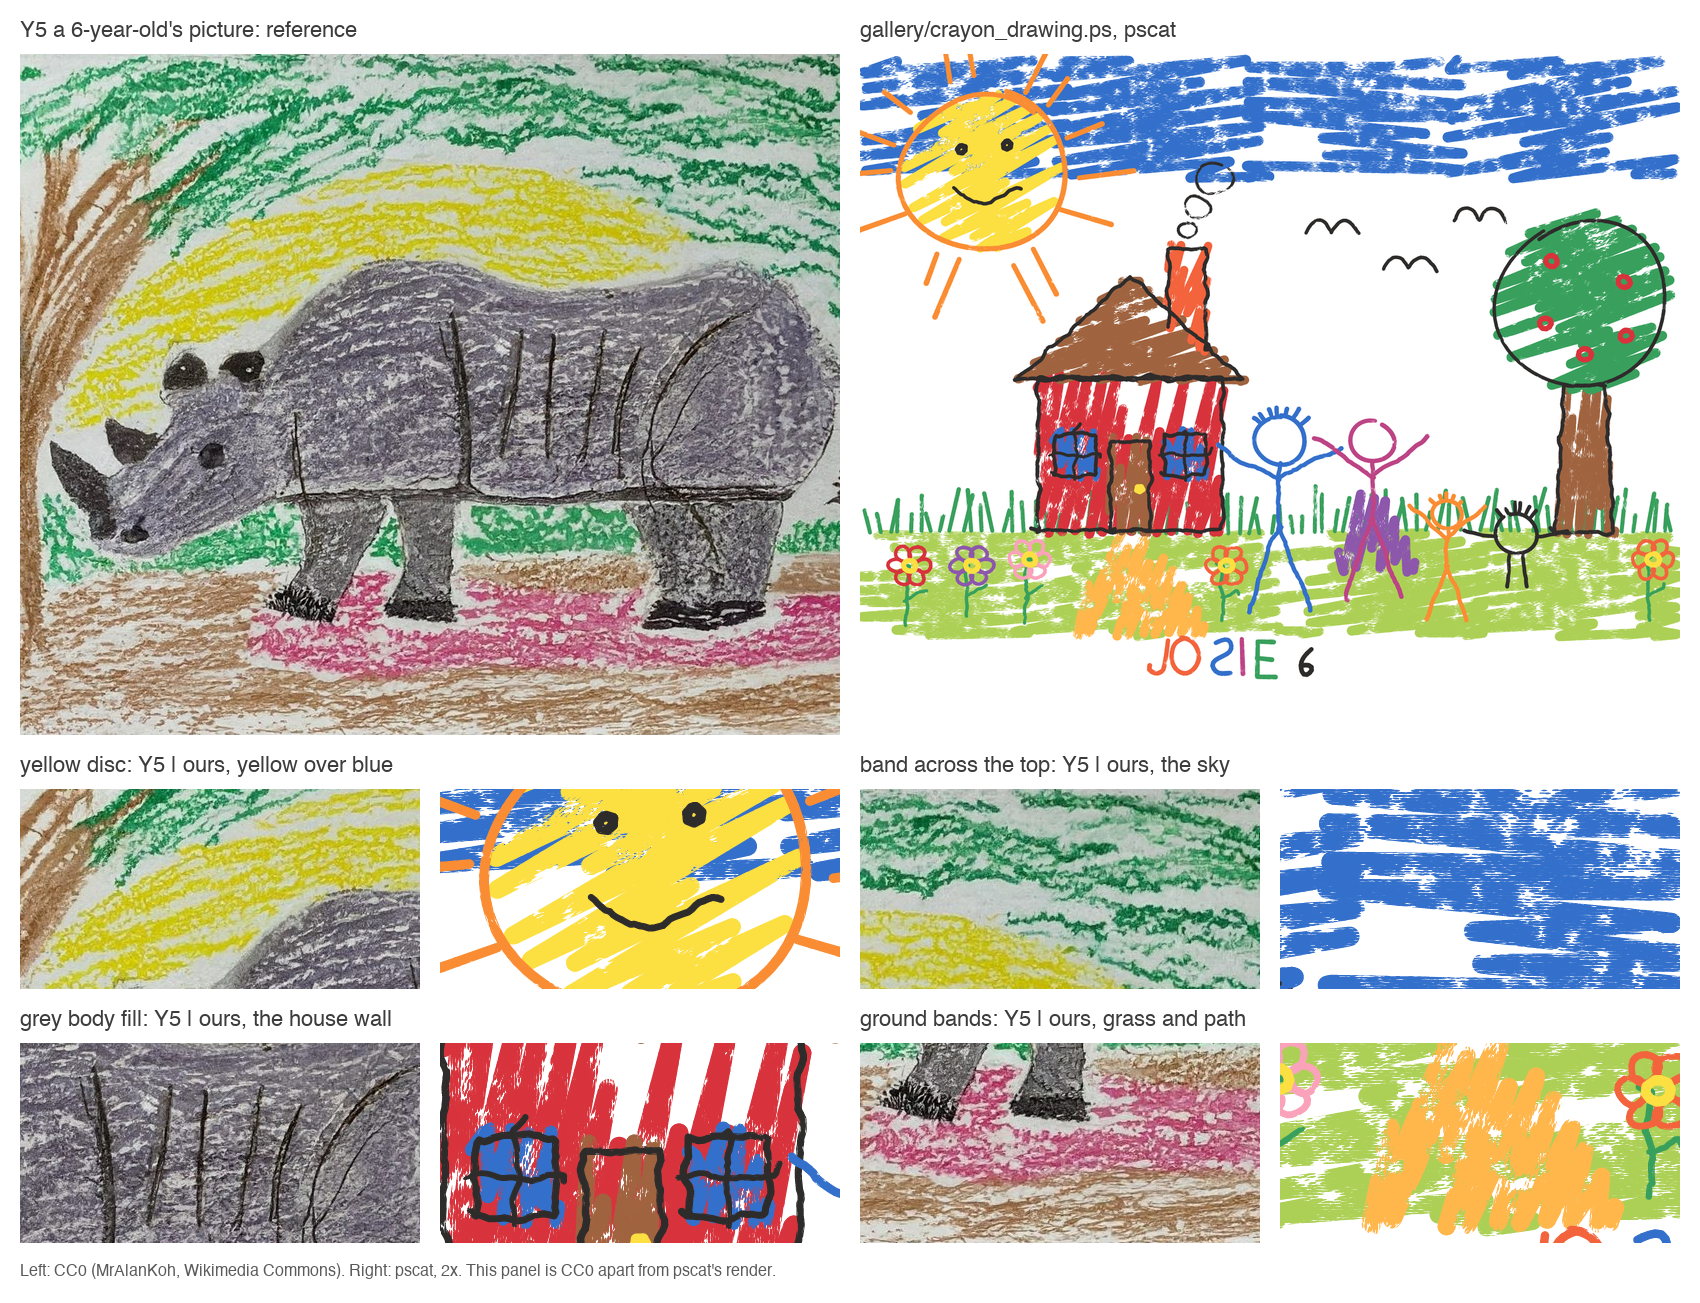
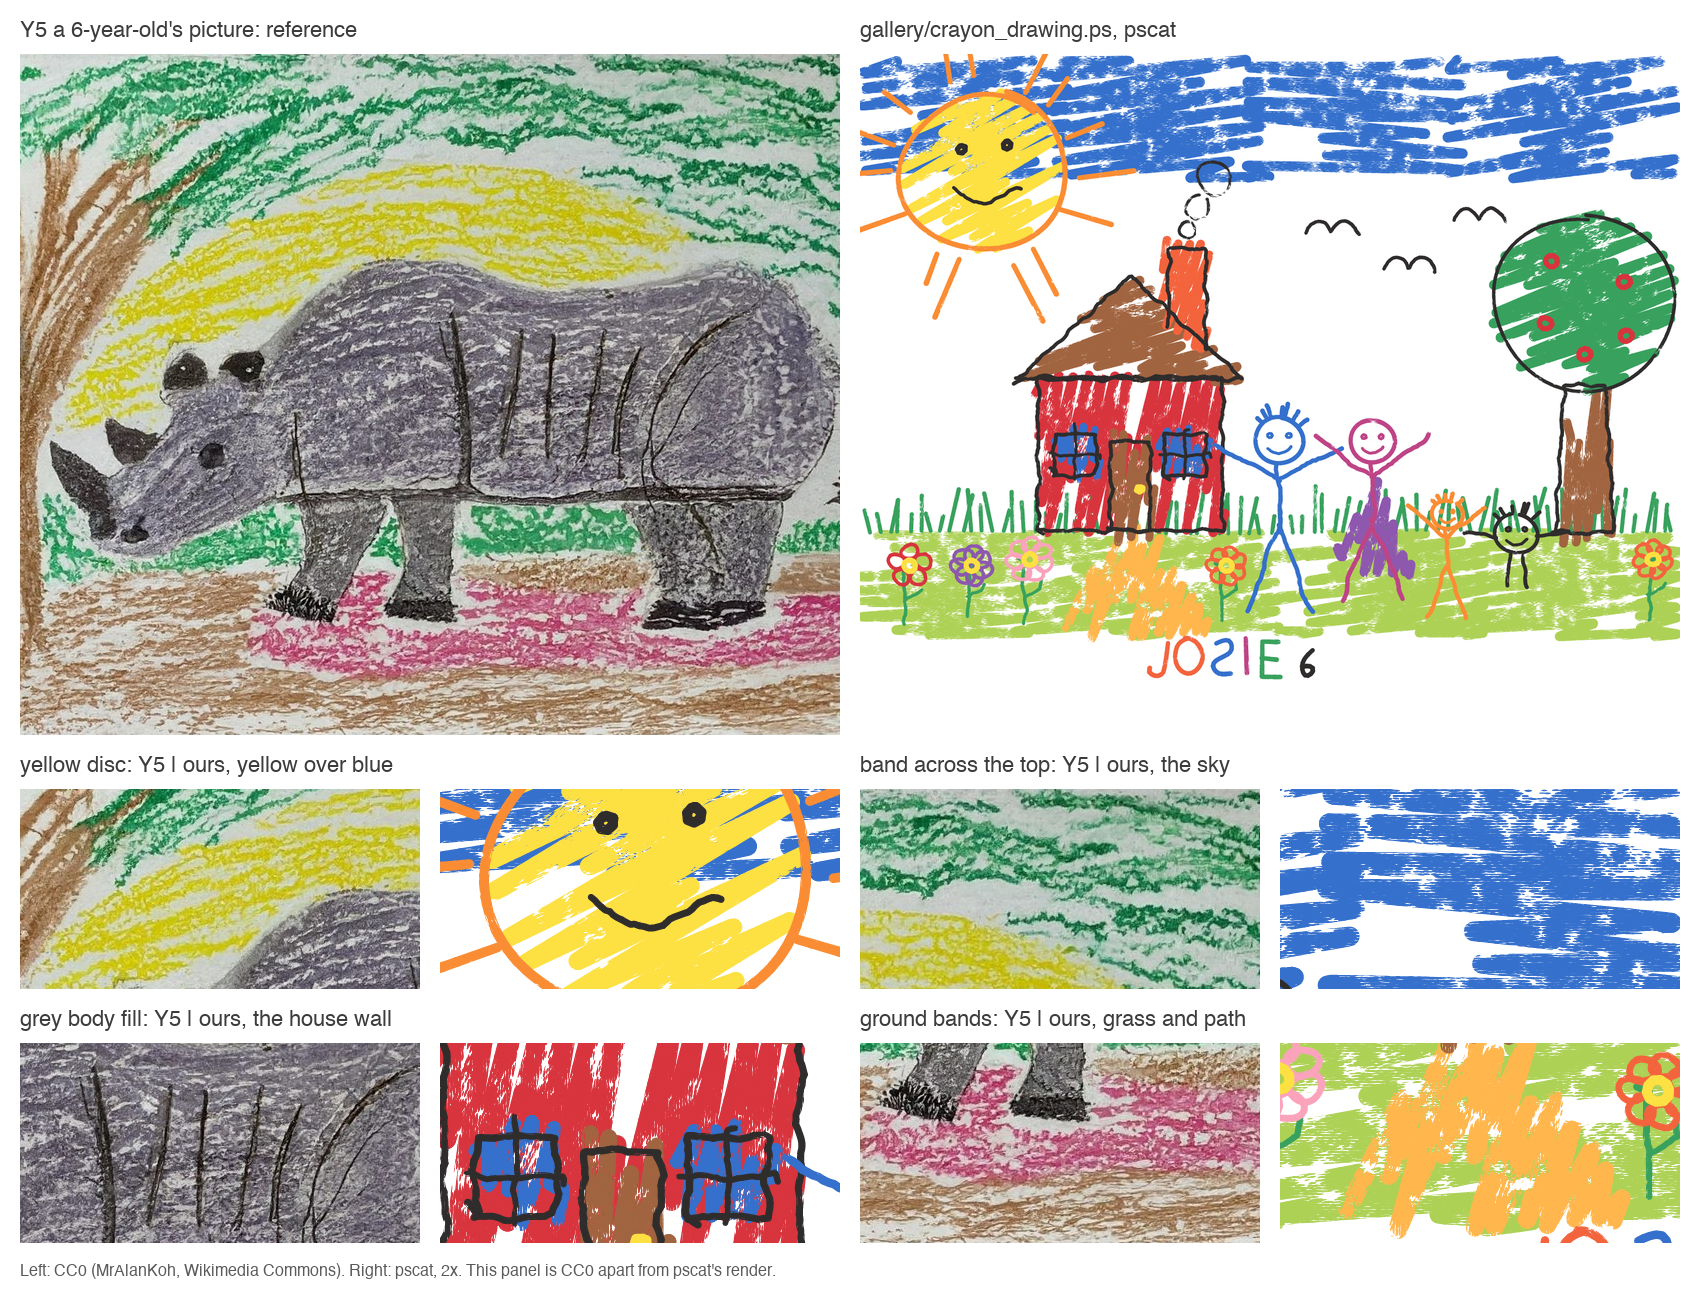
crayon drawing: faces, colour that misses its outlines, varied flowers, white paper; gs render and panel
Claude-Session: https://claude.ai/code/session_01GTbCLDB6QC7UV1i7qukUEL

diff --git a/tests/crayon_drawing.rs b/tests/crayon_drawing.rs
@@ -64,7 +64,10 @@ fn the_drawing_builds_in_pscat_with_its_parts_where_the_composition_puts_them() 
     let grass = fraction(&px, 400, 55, 780, 145, is_green);
     assert!(grass < 0.95, "grass has white seams, got {grass}");
     let grass_green = fraction(&px, 0, 55, 792, 145, |p| is_green(p) || p[1] > 180);
-    assert!(grass_green > 0.5, "the ground band is green, got {grass_green}");
+    assert!(
+        grass_green > 0.5,
+        "the ground band is green, got {grass_green}"
+    );
     // the air: between the sky's lower edge and the roof, away from the
     // birds and the smoke, is bare paper
     let air = fraction(&px, 400, 300, 590, 390, is_paper);
@@ -93,7 +96,13 @@ fn the_drawing_runs_in_ghostscript() {
     // The piece loads its libraries with relative `run`s from the repo
     // root (cargo's test cwd), which gs's default -dSAFER refuses.
     let out = std::process::Command::new("gs")
-        .args(["-dNOSAFER", "-dNOPAUSE", "-dBATCH", "-q", "-sDEVICE=nullpage"])
+        .args([
+            "-dNOSAFER",
+            "-dNOPAUSE",
+            "-dBATCH",
+            "-q",
+            "-sDEVICE=nullpage",
+        ])
         .arg(format!("-dDEVICEWIDTHPOINTS={W}"))
         .arg(format!("-dDEVICEHEIGHTPOINTS={H}"))
         .arg(PIECE)

diff --git a/notes/240-crayon-drawing.md b/notes/240-crayon-drawing.md
@@ -5,7 +5,8 @@ on printer paper, 792x612 pt, built from `lib/drycrayon.ps` (#239) and
 `lib/strokeglyphs.ps` (#236). No library changes. Rendered still:
 `gallery/renders/crayon_drawing.png` (2x, as the gallery convention says).
 The reference panel is `docs/drymedia/crayon_drawing_compare.png`, built by
-`docs/drymedia/prototypes/crayon_drawing_compare.py`.
+`docs/drymedia/prototypes/crayon_drawing_compare.py`; the gs render is
+`docs/drymedia/crayon_drawing_gs.png`.
 
 ### Composition, and what it copies from the references
 
@@ -29,6 +30,15 @@ and after drawing, not from memory:
   scribble over the blue band with the blue showing through the gaps, its ring
   and rays `dyloop` and `dyrays` with large `/Wobble`, `/Gap` and `/Lean`.
   It has a smile, as suns do.
+- **Faces and spill** (the advisor's pass after the first render): every
+  figure has two dots and a smile (`cdface`, head radius and centre from
+  dyfigure's own geometry: 0.13 h at 0.87 h up for a stick figure, 0.3 h at
+  0.7 h for a tadpole). Each fill is a polygon with its corners knocked up
+  to 5 pt off the outline's (`cdpolyj`) and `/Overrun 8`, so colour spills
+  past some edges and stops short of others. Flowers vary in petal count
+  (5 to 7), ring radius, petal size and starting angle. The paper is
+  `/Ground [1 1 1]`, printer white, so drykit's idea of what lies beneath
+  the wax matches what is painted.
 - **The name**, JOSIE, then a 6, are `sgpath` capitals inked with the crayon
   one letter at a time (`cdletter`): each its own size (47 to 52 pt), lean
   (-6 to +5 degrees), baseline (10 to 14 pt) and colour, with a gap that is
@@ -41,8 +51,8 @@ and after drawing, not from memory:
 
 | | pscat | gs |
 |---|---|---|
-| render at 2x (`--dpi 144`, 1584x1224), CPU `user` | 13.2 s (load average 12 to 27, so wall time ran up to 25 s) | 5.2 s |
-| `tests/crayon_drawing.rs`, `--profile ci`, 1x plus gs | about 15 s for the pair | |
+| render at 2x (`--dpi 144`, 1584x1224), CPU `user` | 8.7 s (13.2 s before #332 landed; the machine ran at load average 12 to 27, so wall time swung up to 25 s) | 5.2 s |
+| `tests/crayon_drawing.rs`, `--profile ci`, 1x plus gs | about 15 s for the pair (a whole piece, so over the 2 s per-render line for `tests/drykit*.rs`, which is for specimen-scale renders) | |
 | DRYMEDIA.md 6.2 budget for this piece | 20 s | 20 s |
 
 The 2x-scale convention (`2 2 scale` prepended, `--page 1584x1224`) gives the

diff --git a/docs/drymedia/REFERENCES.md b/docs/drymedia/REFERENCES.md
@@ -52,6 +52,8 @@ It is CC BY-SA 4.0, with all five attributions.
 
 The crayon comparison panels (#239) are built by `prototypes/crayon_compare.py`. `crayon_compare.png` uses only the CC0 crops from MrAlanKoh's rhino drawing, so it stays CC0 apart from pscat's own renders. `crayon_compare_figure.png` contains `crayon_child_tadpole_3y`, so it is CC BY-SA 3.0, with the source's attribution.
 
+The gallery piece's comparison panel (#240), `crayon_drawing_compare.png`, is built by `prototypes/crayon_drawing_compare.py` from Y5 only (the rhino drawing, CC0), so it is CC0 apart from pscat's own render. Y5 may be oil pastel rather than crayon (see its row), so the match of grain is approximate. `crayon_drawing_gs.png` is the same piece rendered by Ghostscript, whose `rand` lays the motions out slightly differently.
+
 These sources were viewed but no crop is committed. One is not free to
 reuse; the others add nothing the crops above lack:
 
